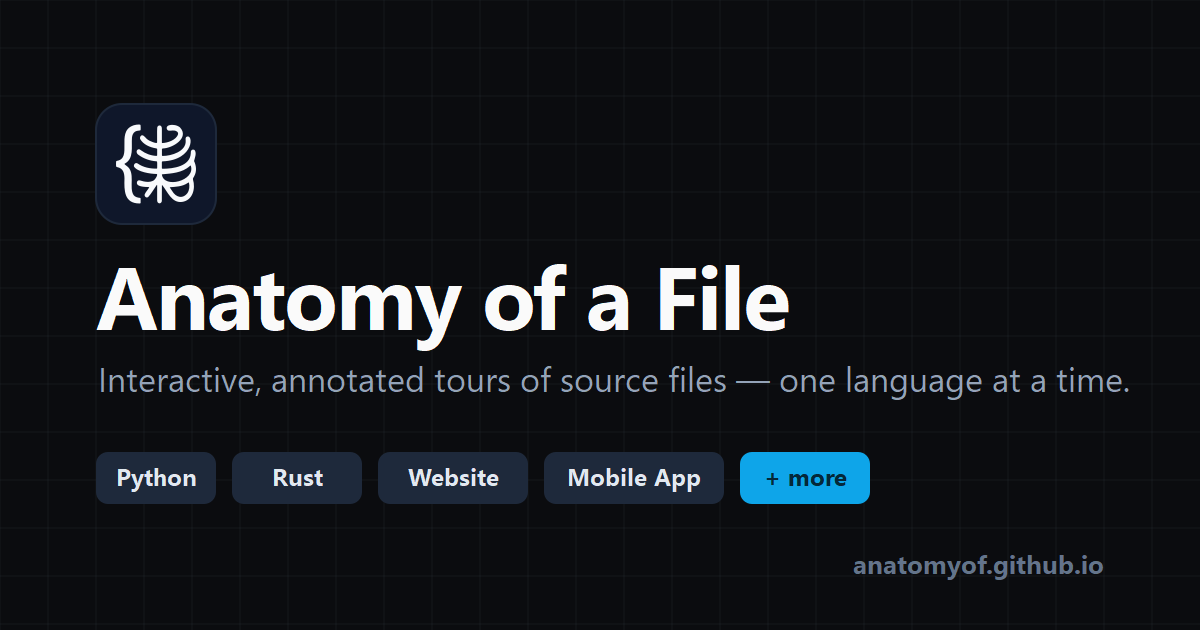
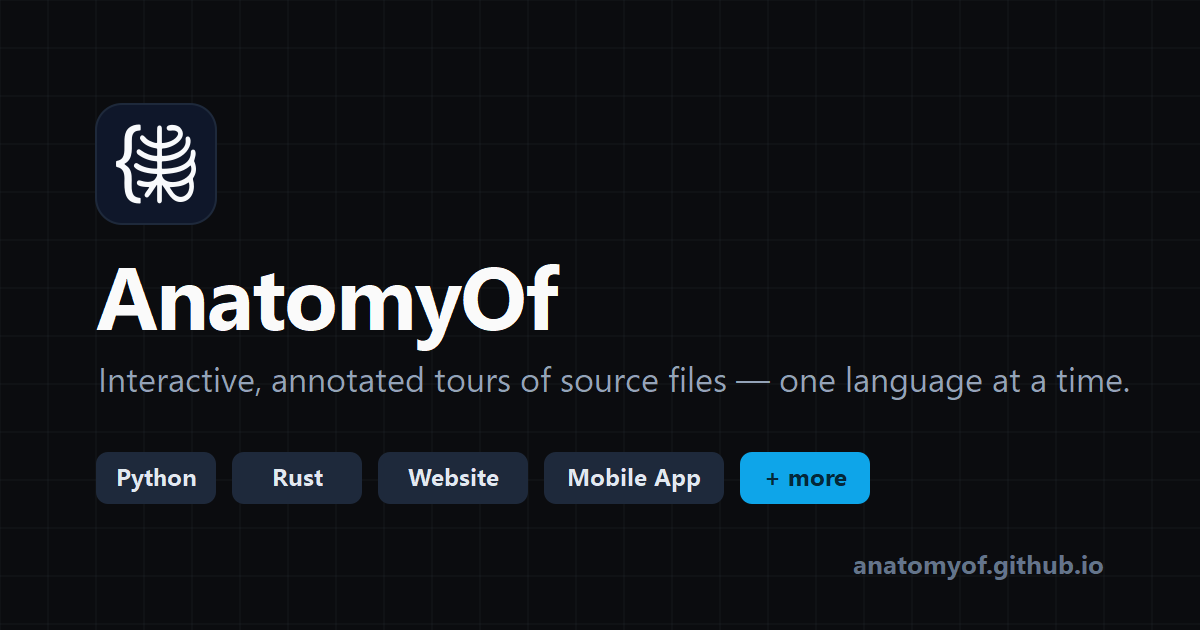
Rename brand to "AnatomyOf"
Update the site name from "Anatomy of a File" to "AnatomyOf" across the
UI (sidebar, mobile header, document title), social/meta tags, brand
assets (favicon + og-image SVG and regenerated PNG), the brand generator
script, and both READMEs. The per-page heading pattern ("Anatomy of a
Python file", etc.) is unchanged — that's content, not the brand.

Changed region(s): [[0.37, 0.4222, 0.6783, 0.5429]]

diff --git a/app/index.html b/app/index.html
@@ -6,7 +6,7 @@
     <link rel="apple-touch-icon" href="/apple-touch-icon.png" />
     <meta name="viewport" content="width=device-width, initial-scale=1.0" />
     <meta name="theme-color" content="#0b0c0f" />
-    <title>Anatomy of a File</title>
+    <title>AnatomyOf</title>
     <meta
       name="description"
       content="Interactive, annotated tours of source files — one language at a time. Hover a callout to trace it into the code; click for the full story."
@@ -16,7 +16,7 @@
          render SVG og:images; regenerate from og-image.svg via the brand script. -->
     <meta property="og:type" content="website" />
     <meta property="og:url" content="https://anatomyof.github.io/" />
-    <meta property="og:title" content="Anatomy of a File" />
+    <meta property="og:title" content="AnatomyOf" />
     <meta
       property="og:description"
       content="Interactive, annotated tours of source files — one language at a time."
@@ -25,7 +25,7 @@
     <meta property="og:image:width" content="1200" />
     <meta property="og:image:height" content="630" />
     <meta name="twitter:card" content="summary_large_image" />
-    <meta name="twitter:title" content="Anatomy of a File" />
+    <meta name="twitter:title" content="AnatomyOf" />
     <meta
       name="twitter:description"
       content="Interactive, annotated tours of source files — one language at a time."

diff --git a/app/scripts/gen-brand.ts b/app/scripts/gen-brand.ts
@@ -34,7 +34,7 @@ const mark = paths.map((d) => `    <path d="${d}" />`).join('\n')
 writeFileSync(
   'src/components/BrandMark.vue',
   `<script setup lang="ts">
-// The Anatomy-of-a-File logo mark ({ brace + ribcage). Monochrome: fills with
+// The AnatomyOf logo mark ({ brace + ribcage). Monochrome: fills with
 // currentColor, so callers set the color via a text-* class and it adapts to
 // light/dark. Source of truth: public/logo.svg (regenerate via scripts/gen-brand).
 </script>
@@ -56,7 +56,7 @@ ${mark}
 const f = fit(64, 12)
 writeFileSync(
   'public/favicon.svg',
-  `<svg xmlns="http://www.w3.org/2000/svg" viewBox="0 0 64 64" role="img" aria-label="Anatomy of a File">
+  `<svg xmlns="http://www.w3.org/2000/svg" viewBox="0 0 64 64" role="img" aria-label="AnatomyOf">
   <rect width="64" height="64" rx="14" fill="#0f172a" />
   <g fill="#f8fafc" transform="translate(${f.x} ${f.y}) scale(${f.scale})">
 ${paths.map((d) => `    <path d="${d}" />`).join('\n')}

diff --git a/app/src/App.vue b/app/src/App.vue
@@ -78,7 +78,7 @@ watch(
           <Menu class="size-5" />
         </button>
         <BrandMark class="size-5 shrink-0 text-zinc-900 dark:text-zinc-100" />
-        <span class="truncate text-sm font-extrabold tracking-tight">Anatomy of a File</span>
+        <span class="truncate text-sm font-extrabold tracking-tight">AnatomyOf</span>
         <a
           :href="repoUrl"
           target="_blank"

diff --git a/app/src/components/AppSidebar.vue b/app/src/components/AppSidebar.vue
@@ -73,7 +73,7 @@ function toggleTheme() {
       <BrandMark class="size-5 shrink-0 text-zinc-900 dark:text-zinc-100" />
       <div class="min-w-0">
         <div class="truncate text-sm font-extrabold tracking-tight text-zinc-900 dark:text-zinc-100">
-          Anatomy of a File
+          AnatomyOf
         </div>
         <div class="text-[11px] text-zinc-500 dark:text-zinc-400">interactive edition</div>
       </div>

diff --git a/app/src/components/BrandMark.vue b/app/src/components/BrandMark.vue
@@ -1,5 +1,5 @@
 <script setup lang="ts">
-// The Anatomy-of-a-File logo mark ({ brace + ribcage). Monochrome: fills with
+// The AnatomyOf logo mark ({ brace + ribcage). Monochrome: fills with
 // currentColor, so callers set the color via a text-* class and it adapts to
 // light/dark. Source of truth: public/logo.svg (regenerate via scripts/gen-brand).
 </script>

diff --git a/app/src/components/SuggestDialog.vue b/app/src/components/SuggestDialog.vue
@@ -58,7 +58,7 @@ function submit() {
     // Open the visitor's mail client, pre-addressed and pre-filled.
     const body = `Suggestion: ${suggestion.value.trim()}\nFrom: ${email.value.trim()}`
     window.location.href = `mailto:${SUGGEST_DEST_EMAIL}?subject=${encodeURIComponent(
-      'Anatomy of a File — suggestion',
+      'AnatomyOf — suggestion',
     )}&body=${encodeURIComponent(body)}`
     done.value = true
   } catch {

diff --git a/README.md b/README.md
@@ -1,7 +1,7 @@
 <div align="center">
 
 <a href="https://anatomyof.github.io">
-  <img src="app/public/og-image.png" alt="Anatomy of a File — interactive, annotated tours of source files" width="720" />
+  <img src="app/public/og-image.png" alt="AnatomyOf — interactive, annotated tours of source files" width="720" />
 </a>
 
 <p><em>An interactive, annotated tour of what's inside a source file — one language at a time.</em></p>
@@ -18,7 +18,7 @@
 
 ---
 
-**[Anatomy of a File](https://anatomyof.github.io)** opens an example source file in a code
+**[AnatomyOf](https://anatomyof.github.io)** opens an example source file in a code
 window with color-coded callouts explaining every structural part — shebang, imports, class
 definitions, control flow, and more. **Hover** a callout to trace it into the code; **click**
 it for an in-depth writeup. Every language ships a **minimal** and a **verbose** example,
@@ -96,7 +96,7 @@ Everything is data-driven — one file per language in `app/src/data/`:
 
 <div align="center">
   <br />
-  <a href="https://anatomyof.github.io"><img src="app/public/apple-touch-icon.png" alt="Anatomy of a File" width="48" /></a>
+  <a href="https://anatomyof.github.io"><img src="app/public/apple-touch-icon.png" alt="AnatomyOf" width="48" /></a>
   <br /><br />
   <sub>Built by <a href="https://lunarwerx.com"><b>LunarWerx</b></a> · Deployed on GitHub Pages</sub>
 </div>

diff --git a/app/README.md b/app/README.md
@@ -1,6 +1,6 @@
 # app
 
-The Vue 3 + Vite frontend for **Anatomy of a File**. See the [root README](../README.md)
+The Vue 3 + Vite frontend for **AnatomyOf**. See the [root README](../README.md)
 for what the project is, the stack, how to run it, and how to add a language.
 
 ```sh